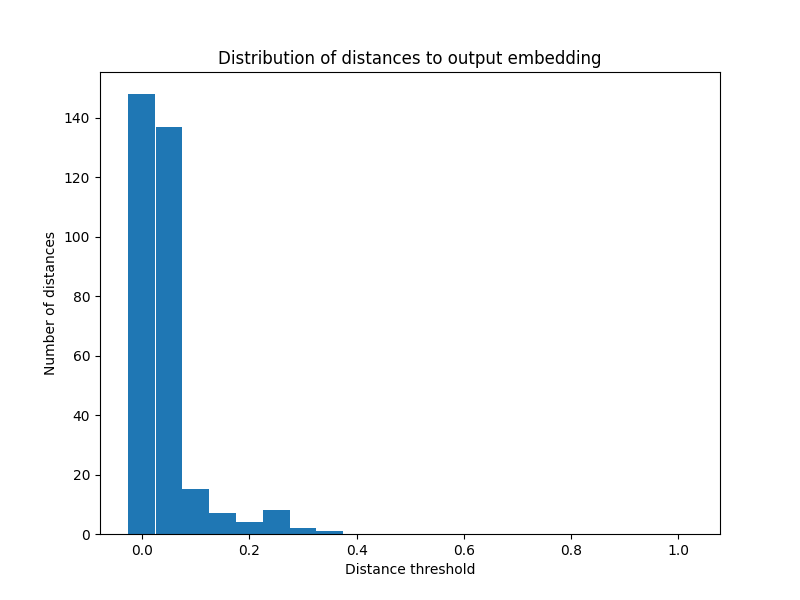
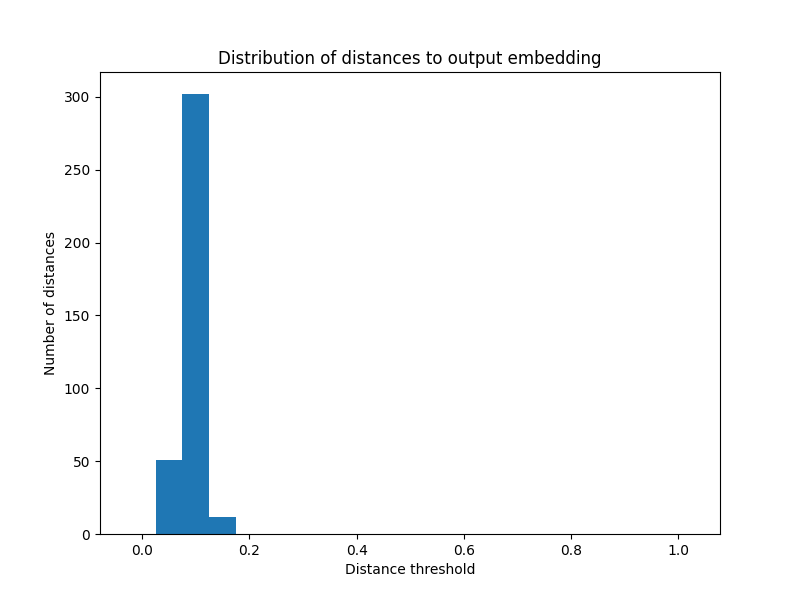
plot recreation + more plots

diff --git a/main.py b/main.py
@@ -14,7 +14,7 @@ from transformers import AutoTokenizer
 import pickle
 
 target_data_labels = ["ONeill", "output"] #TODO add more labels here as needed, these should correspond to the folder names in data/wav/
-embeddings = ["muq"] # options: "clamp", "clap", "muq", "folkrnn", "random"
+embeddings = ["clamp", "clap", "muq"] # options: "clamp", "clap", "muq", "folkrnn", "random"
 methods = ["cosine"] # options: "euclidean", "cosine", "cl", "matching", "hamming", "jaccard", "orchini", "sorencen-dice", "tanimoto", "tucker", "tversky"
 CLAMP_MODEL_NAME = "sander-wood/clamp-small-512"
 
@@ -272,37 +272,37 @@ if __name__ == "__main__":
             data[label]["embed"][embedding] = embedded_data
 
 
-    embedding = embeddings[0] #TODO do this for all embeddings, not just the first one
-    # Embed the data using the specified embedding method
+    for embedding in embeddings:
+        # Embed the data using the specified embedding method
 
-    plotting.plot_embeddings(data, "ONeill", embedding)
-    plotting.plot_embeddings_pca(data, "ONeill", embedding)
+        plotting.plot_embeddings(data, "ONeill", embedding)
+        plotting.plot_embeddings_pca(data, "ONeill", embedding)
 
-    plotting.plot_pca_pairs(data, "ONeill", embedding)
-    plotting.plot_pca_variance(data, "ONeill", embedding)
-
-
-
-    for m in methods:
-        plotting.plot_distance_average(data, "ONeill", "ONeill", embedding, method=m)
-        plotting.plot_distance_average(data, ["ONeill", "output"], ["ONeill", "output"], embedding, method=m)
-        plotting.plot_distance_average(data, "ONeill", "output", embedding, method=m)
-        plotting.plot_distance_average(data, "output", "ONeill", embedding, method=m)
+        plotting.plot_pca_pairs(data, "ONeill", embedding)
+        plotting.plot_pca_variance(data, "ONeill", embedding)
 
 
 
-    e_out = random.choice(data["output"]["embed"][embedding])
-    out_dists = compute_dist(e_out, data["ONeill"]["embed"][embedding], methods = methods)
-    out_dists_full = compute_dist(e_out, data["ONeill"]["embed"][embedding] + data["output"]["embed"][embedding], methods = methods)
+        for m in methods:
+            plotting.plot_distance_average(data, "ONeill", "ONeill", embedding, method=m)
+            plotting.plot_distance_average(data, ["ONeill", "output"], ["ONeill", "output"], embedding, method=m)
+            plotting.plot_distance_average(data, "ONeill", "output", embedding, method=m)
+            plotting.plot_distance_average(data, "output", "ONeill", embedding, method=m)
+
+
+
+        e_out = random.choice(data["output"]["embed"][embedding])
+        out_dists = compute_dist(e_out, data["ONeill"]["embed"][embedding], methods = methods)
+        out_dists_full = compute_dist(e_out, data["ONeill"]["embed"][embedding] + data["output"]["embed"][embedding], methods = methods)
 
 
 
 
-    for m in out_dists.keys():
-        plotting.plot_distance_distribution(out_dists[m], embedding+"_"+m)
-        plotting.plot_distance_distribution(out_dists_full[m], embedding+"_full_"+m)
-    
-    
+        for m in out_dists.keys():
+            plotting.plot_distance_distribution(out_dists[m], embedding+"_"+m)
+            plotting.plot_distance_distribution(out_dists_full[m], embedding+"_full_"+m)
+        
+        
     
 
     
